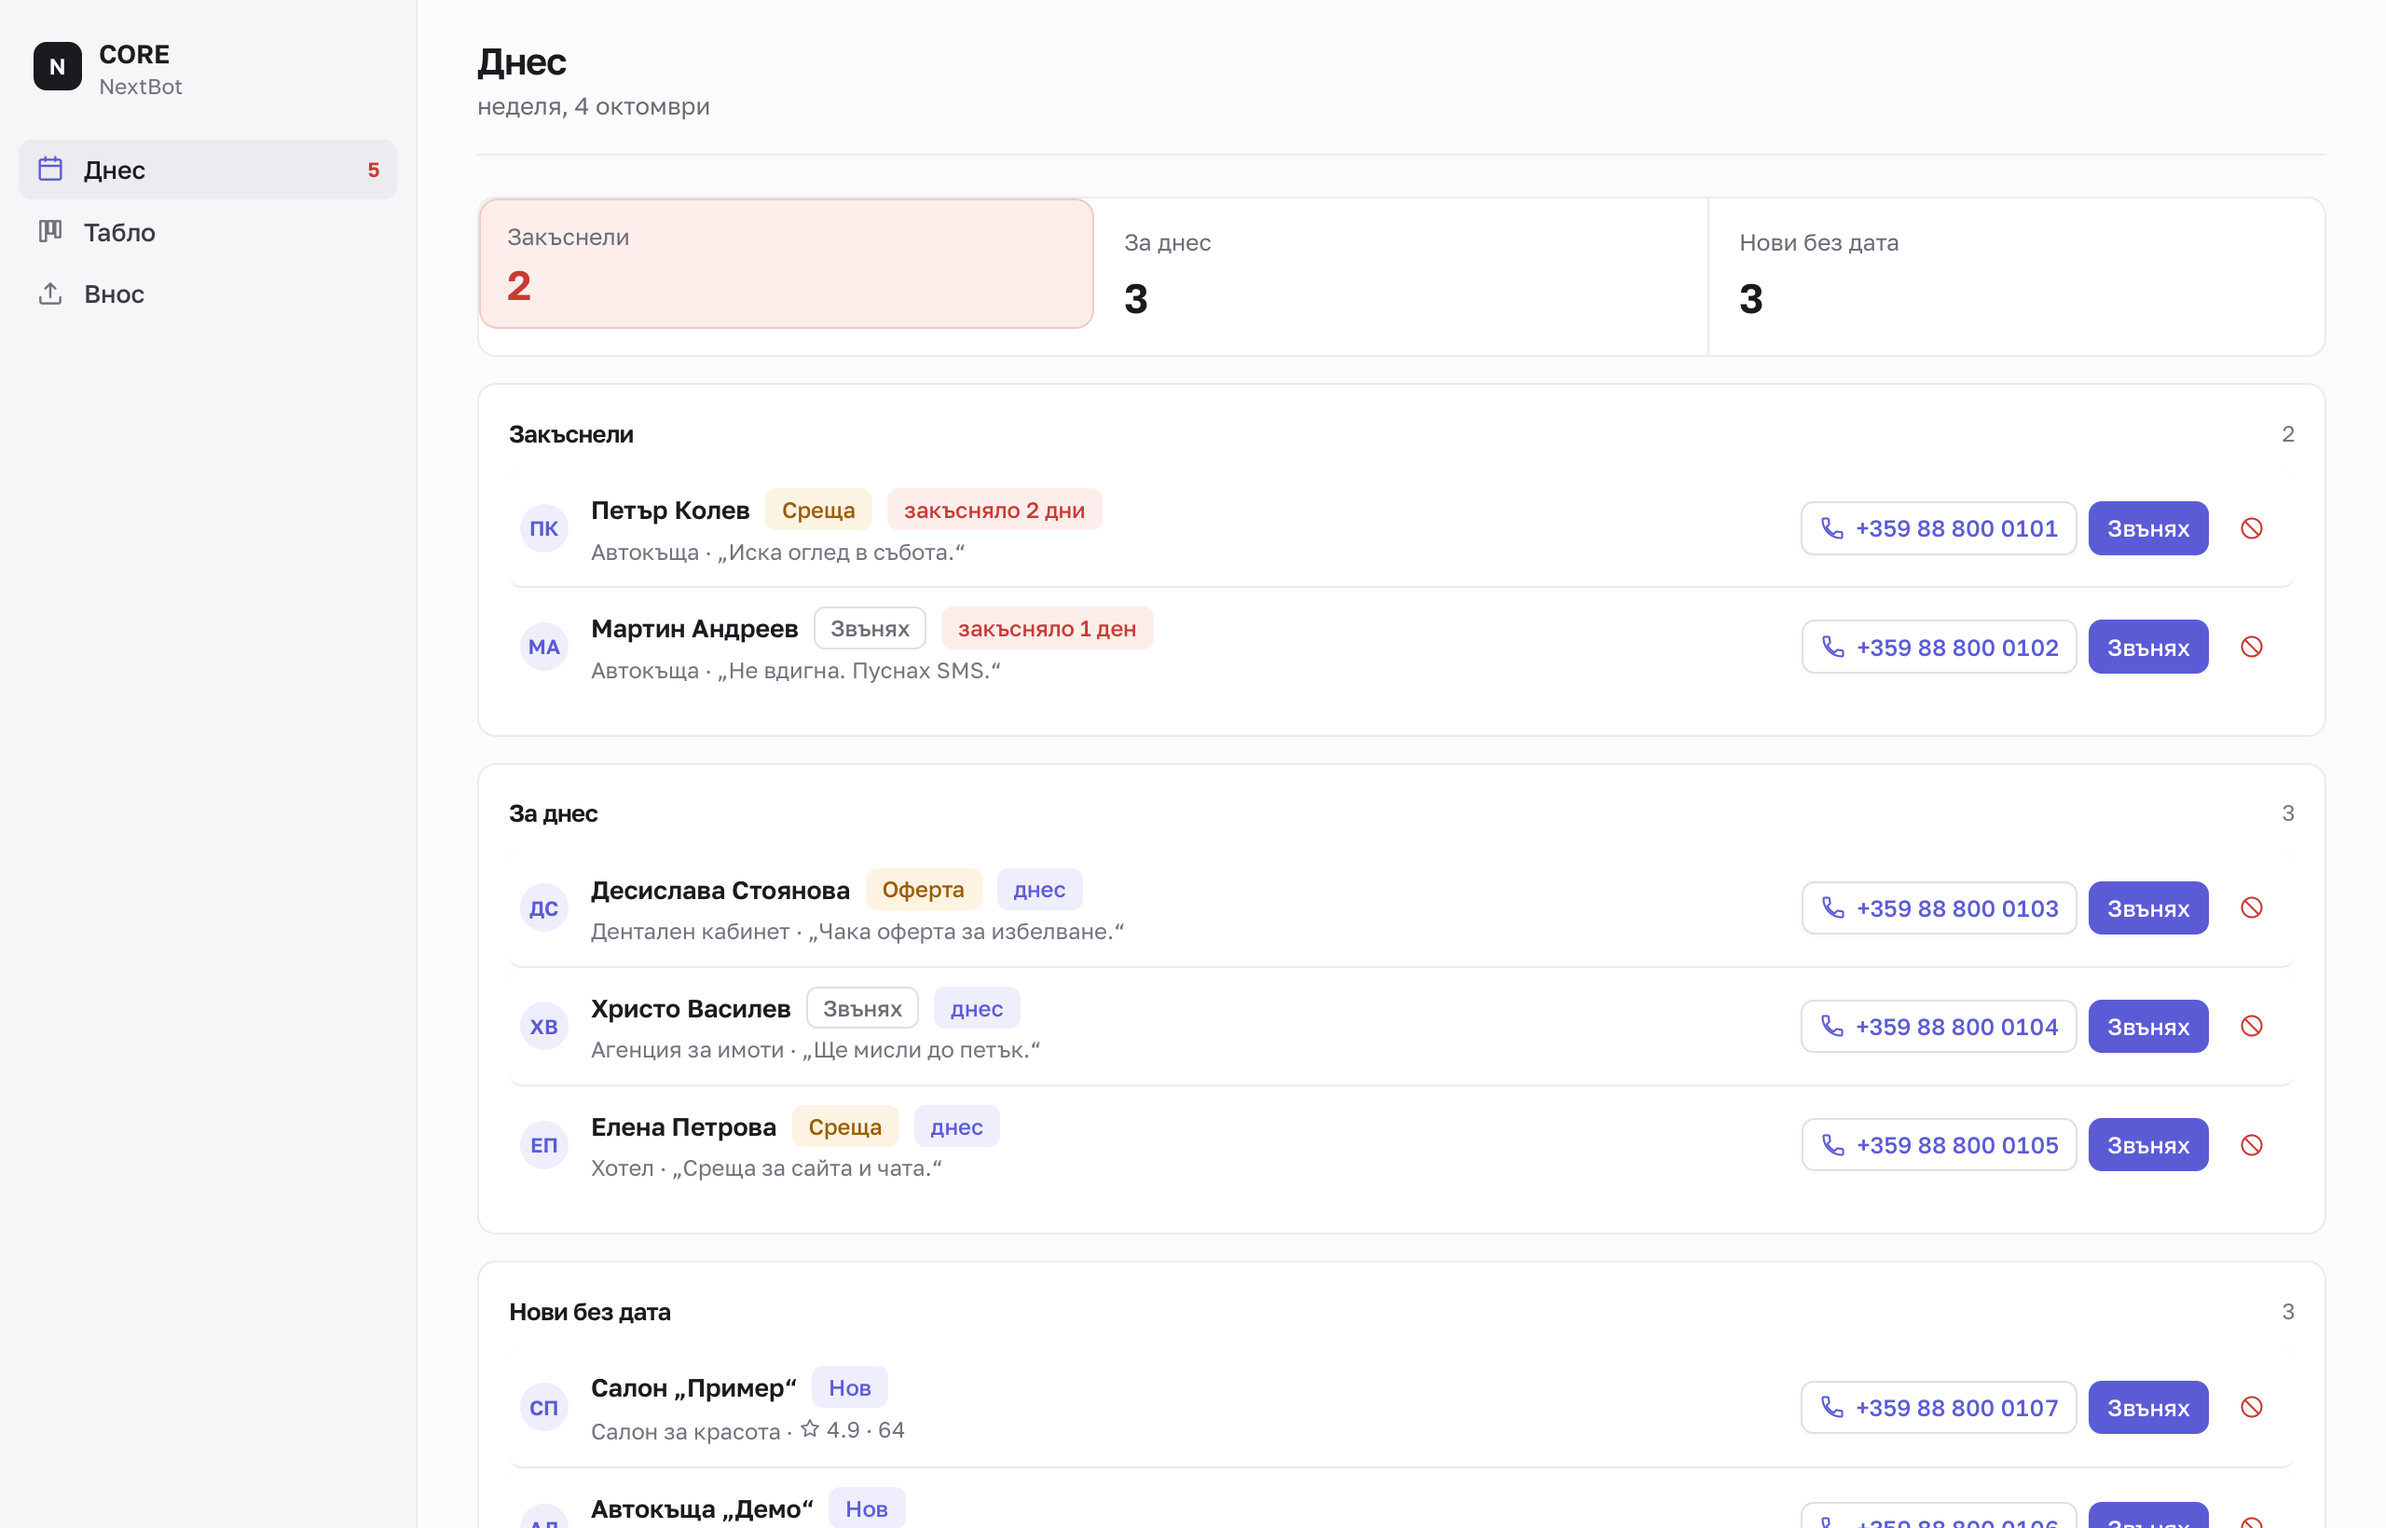
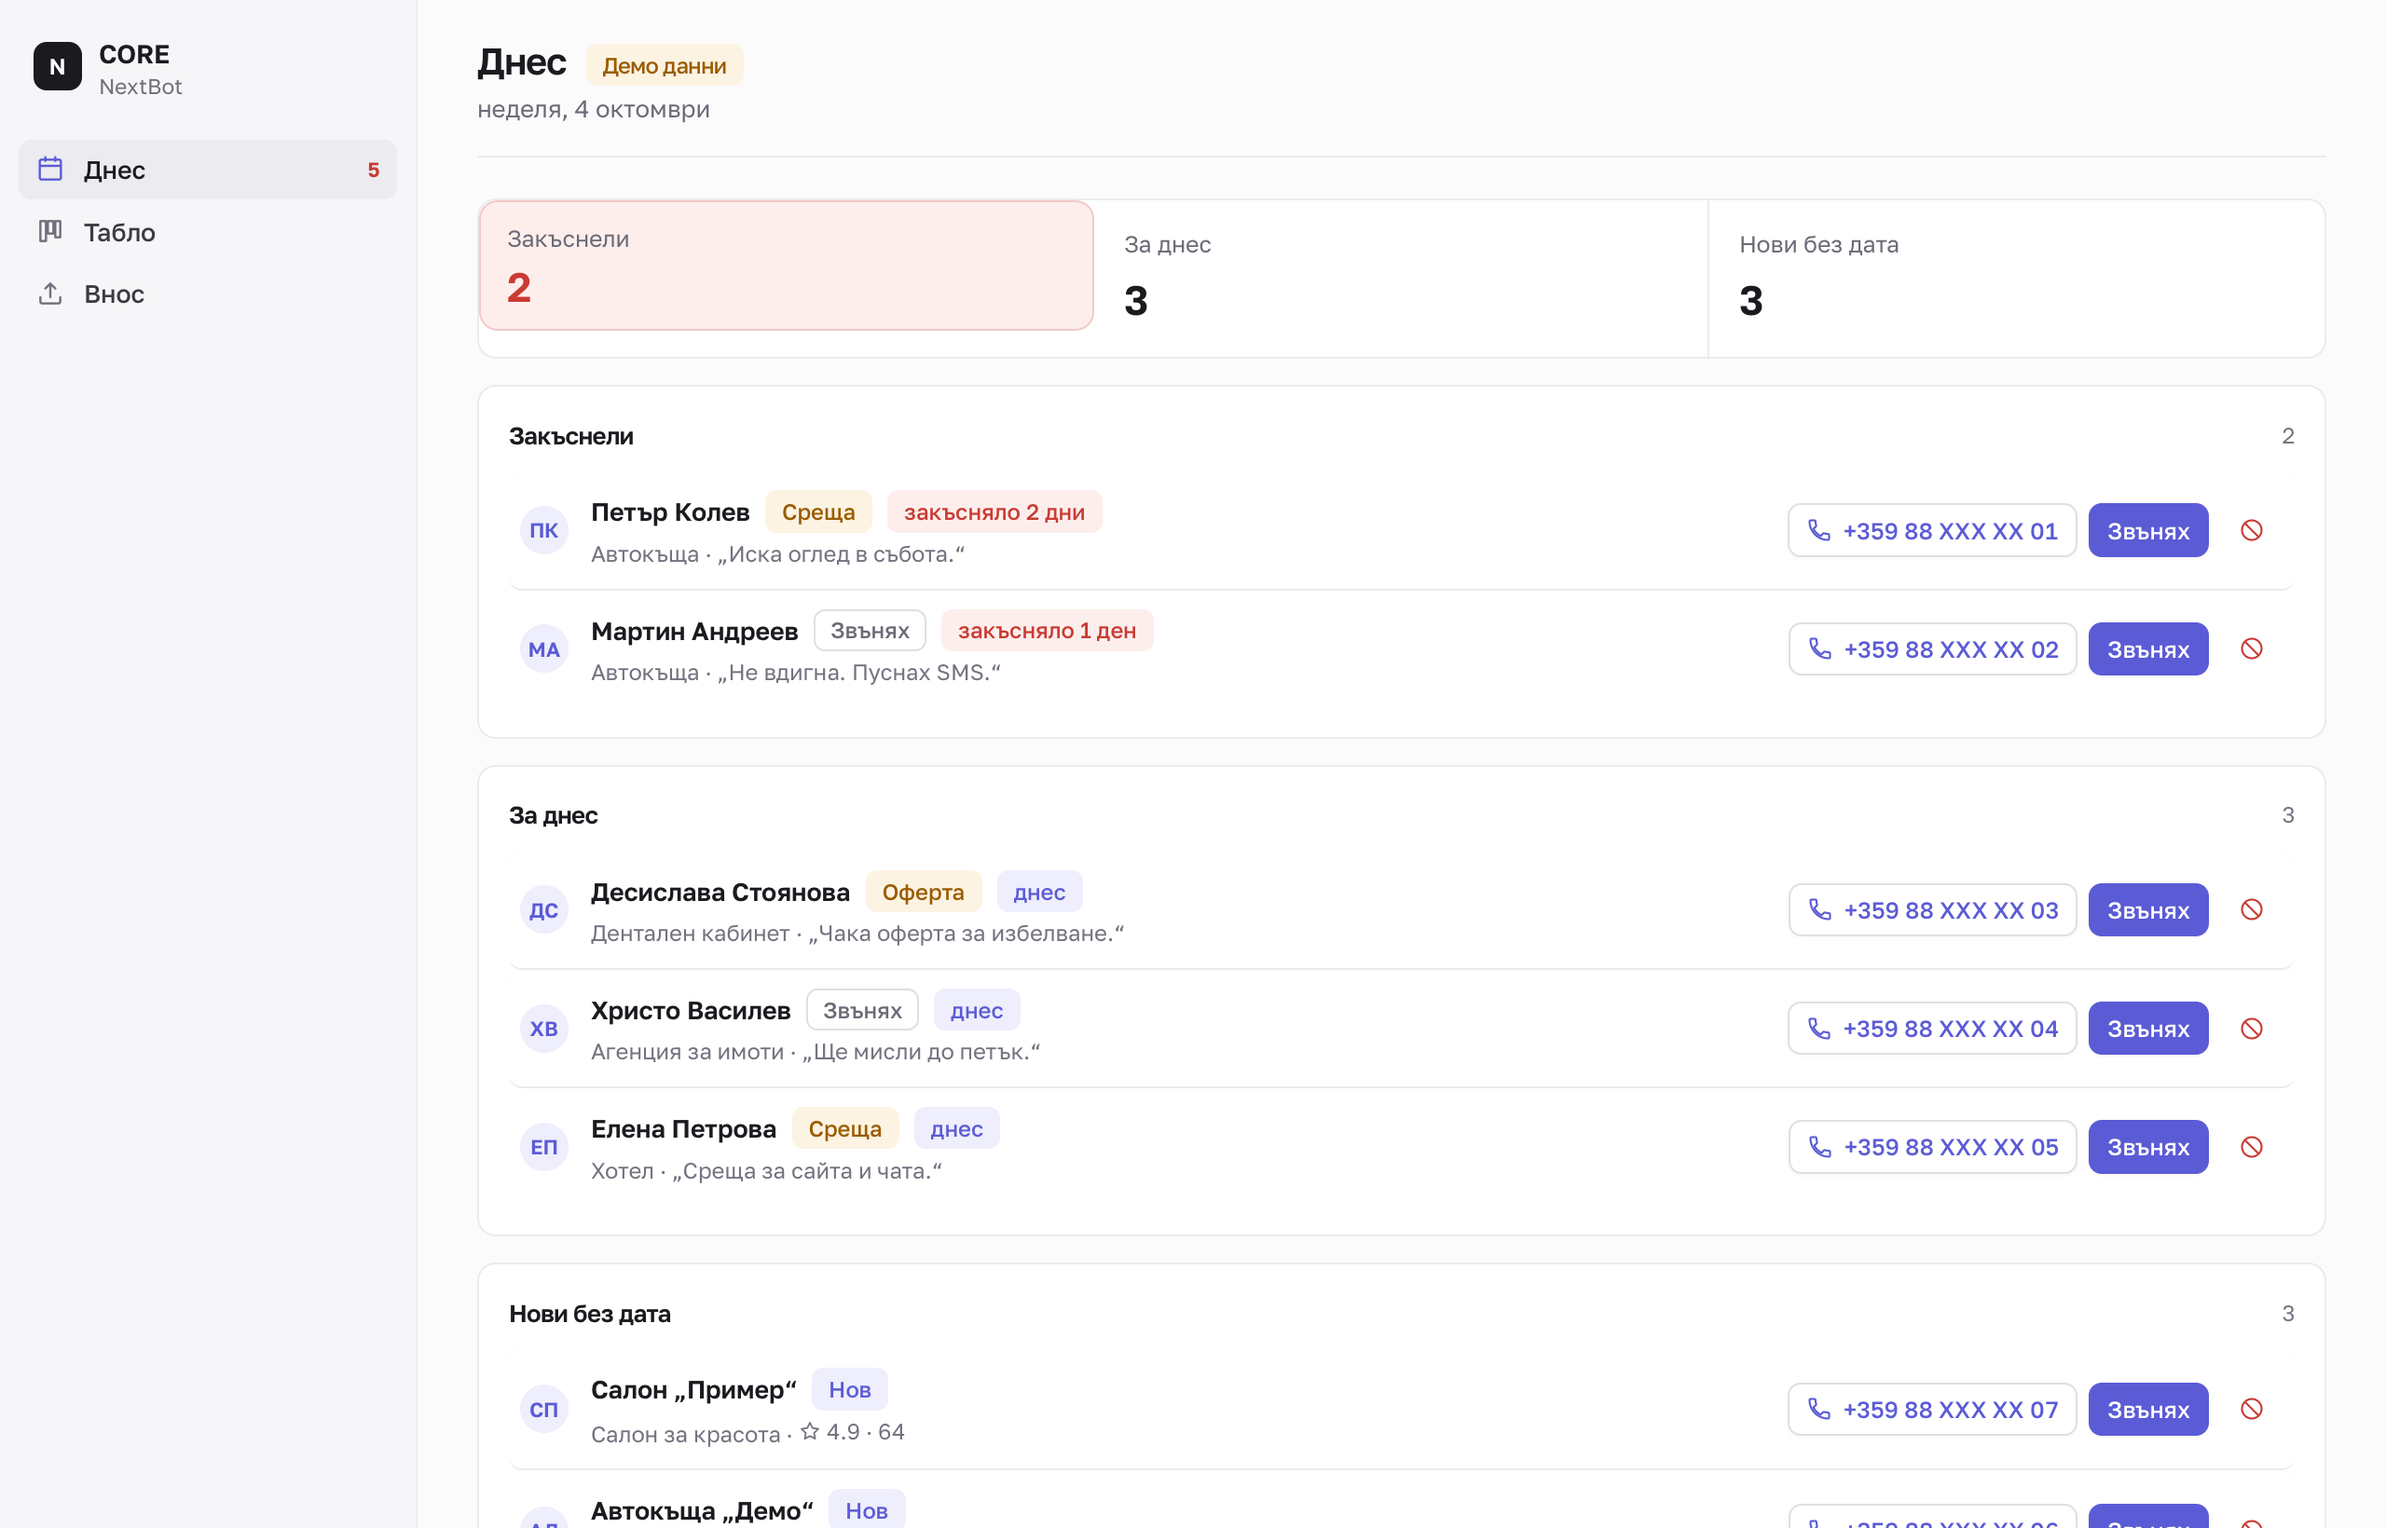
Pilot: 10 free spots (no pilot clients yet, the homepage line hides); CORE screenshot with fake phones and a „Демо данни“ tag; no „NaN“ for missing ratings

diff --git a/components/crm/ui.tsx b/components/crm/ui.tsx
@@ -59,12 +59,13 @@ export function Avatar({ name }: { name: string }) {
   return <span className="av">{letters || '•'}</span>
 }
 
-export function Rating({ rating, count }: { rating: number | null; count: number | null }) {
-  if (rating === null) return null
+export function Rating({ rating, count }: { rating: number | null | undefined; count: number | null | undefined }) {
+  // no rating (or a broken value) → show nothing, never „NaN“
+  if (rating == null || !Number.isFinite(Number(rating))) return null
   return (
     <span className="num" style={{ display: 'inline-flex', alignItems: 'center', gap: 3 }}>
       <Icon name="star" size={12} /> {Number(rating).toFixed(1)}
-      {count !== null && <span style={{ color: 'var(--faint)' }}> · {count}</span>}
+      {count != null && Number.isFinite(Number(count)) && <span style={{ color: 'var(--faint)' }}> · {count}</span>}
     </span>
   )
 }

diff --git a/lib/prices.ts b/lib/prices.ts
@@ -56,7 +56,7 @@ export const SETUP_DAYS = 7
  * Pilot programme: first 10 businesses get the setup at half price for an honest review.
  * Set the REAL number of free spots by hand. null hides the counter (BRAND.md: never a made-up number).
  */
-export const PILOT = { total: 10, spotsLeft: 5 as number | null } // updated by hand: 5 free spots (01.10.2026)
+export const PILOT = { total: 10, spotsLeft: 10 as number | null } // updated by hand: no pilot clients yet, 10 free spots (04.10.2026)
 
 /** 1900 -> "1 900 €" with non-breaking spaces (bg-BG locale leaves 4-digit numbers ungrouped). */
 export const eur = (n: number) => `${String(n).replace(/\B(?=(\d{3})+(?!\d))/g, '\u00A0')}\u00A0€`

diff --git a/components/crm/Board.tsx b/components/crm/Board.tsx
@@ -53,7 +53,7 @@ function CardBody({ lead, today }: { lead: CrmLead; today: string }) {
       <span className="nm">{lead.name}</span>
       <span className="cr">
         {lead.category ?? '—'}
-        {lead.rating !== null && (
+        {lead.rating != null && (
           <>
             {' · '}
             <Rating rating={lead.rating} count={lead.review_count} />

diff --git a/components/crm/Today.tsx b/components/crm/Today.tsx
@@ -25,7 +25,7 @@ function Row({ lead, today, onCall, onBlock }: { lead: CrmLead; today: string; o
         </span>
         <span className="ts">
           {lead.category ?? '—'}
-          {lead.rating !== null && (
+          {lead.rating != null && (
             <>
               {' · '}
               <Rating rating={lead.rating} count={lead.review_count} />
